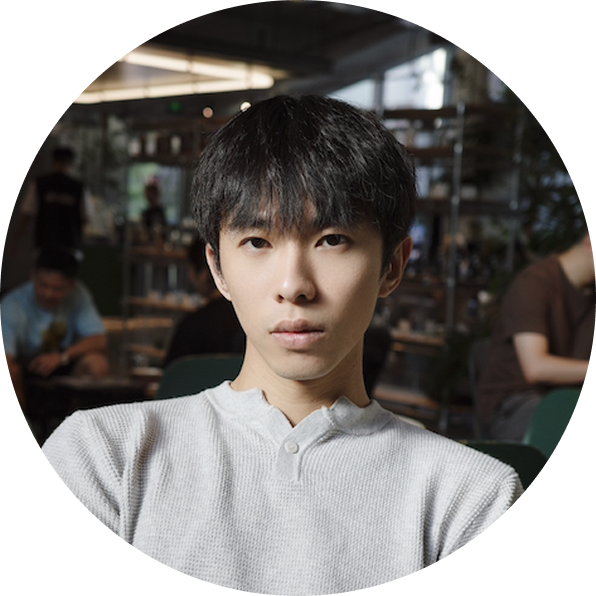
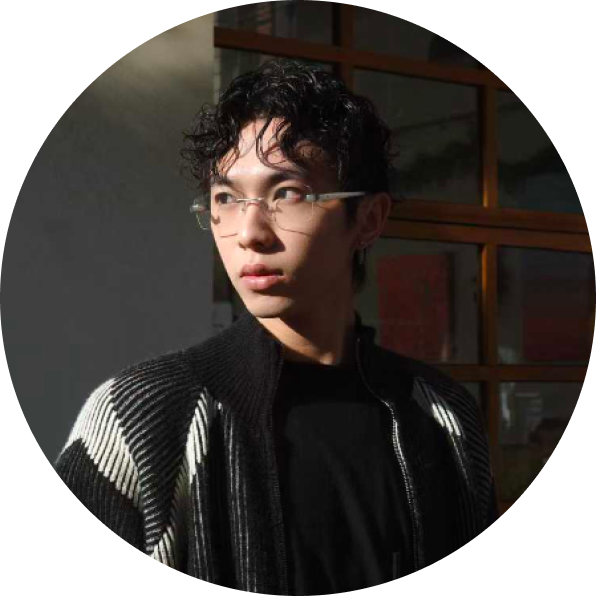
1

diff --git a/components/6_Venue.tsx b/components/6_Venue.tsx
@@ -65,7 +65,7 @@ export default function Venue() {
         </div>
         
         {/* Venue images */}
-        <div className="flex justify-center gap-4">
+        {/* <div className="flex justify-center gap-4">
           <Image
             src={getAssetPath('/Assets/imgs/venue1.png')}
             alt="Venue1"
@@ -87,7 +87,7 @@ export default function Venue() {
             height={326}
             className="object-contain"
           />
-        </div>
+        </div> */}
       </div>
     </section>
   )
